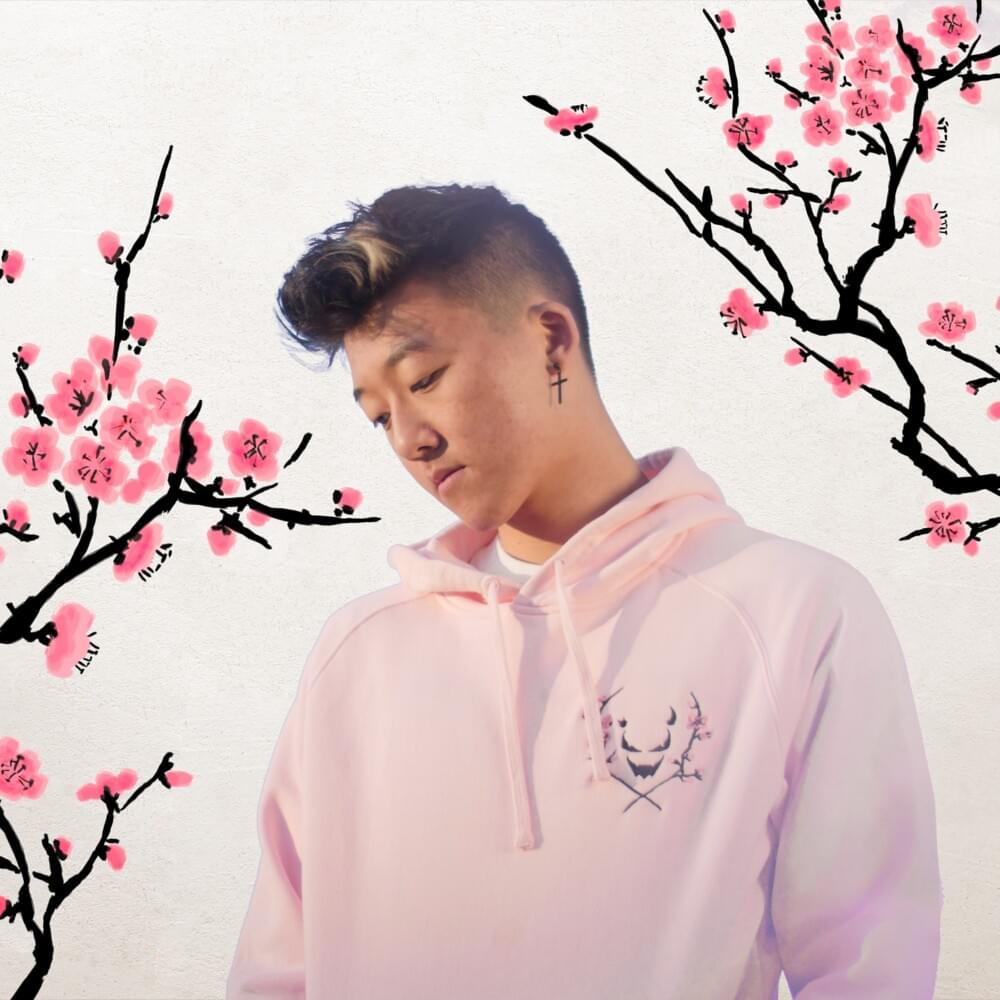
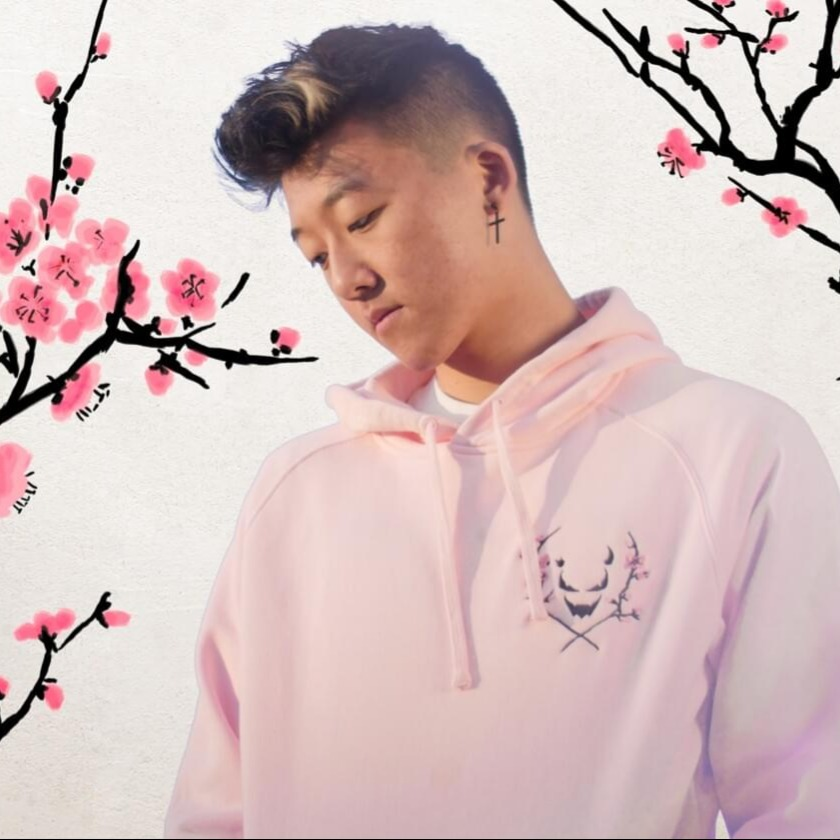
fix(ui): responsive titles, notion card, motion preview and dropdown fixes

diff --git a/genesis-web/src/pages/PromptArchitect.jsx b/genesis-web/src/pages/PromptArchitect.jsx
@@ -565,7 +565,7 @@ const PillSelect = ({ icon: Icon, value, options, onChange }) => {
             {isOpen && (
                 <>
                     <div className="fixed inset-0 z-10" onClick={() => setIsOpen(false)}></div>
-                    <div className="absolute bottom-full left-0 mb-2 w-56 max-h-60 overflow-y-auto custom-scrollbar bg-[#111] border border-white/10 rounded-2xl shadow-xl shadow-black/50 overflow-hidden z-20 flex flex-col p-1 animate-in fade-in zoom-in-95 duration-200">
+                    <div className="absolute bottom-full left-0 mb-2 w-56 max-h-60 overflow-y-auto custom-scrollbar bg-[#111] border border-white/10 rounded-2xl shadow-xl shadow-black/50 overflow-hidden z-[100] flex flex-col p-2 animate-in fade-in zoom-in-95 duration-200">
                         {options.map(opt => (
                             <button
                                 key={opt}
@@ -609,7 +609,7 @@ const ModelSelect = ({ generationType, value, onChange, onTypeChange }) => {
             {isOpen && (
                 <>
                     <div className="fixed inset-0 z-10" onClick={() => setIsOpen(false)}></div>
-                    <div className="absolute bottom-full left-0 mb-2 w-56 bg-[#0a0a0a] border border-white/10 rounded-2xl shadow-2xl shadow-black/70 overflow-hidden z-20 animate-in fade-in zoom-in-95 duration-200">
+                    <div className="absolute bottom-full left-0 mb-2 w-56 bg-[#0a0a0a] border border-white/10 rounded-2xl shadow-2xl shadow-black/70 overflow-hidden z-[100] p-1 animate-in fade-in zoom-in-95 duration-200">
                         {/* Type Tabs */}
                         <div className="flex border-b border-white/5">
                             <button
@@ -682,7 +682,7 @@ const StyleSelect = ({ value, onChange }) => {
             {isOpen && (
                 <>
                     <div className="fixed inset-0 z-10" onClick={() => setIsOpen(false)}></div>
-                    <div className="absolute bottom-full left-0 mb-2 w-64 bg-[#0a0a0a] border border-white/10 rounded-2xl shadow-2xl shadow-black/70 overflow-hidden z-20 animate-in fade-in zoom-in-95 duration-200">
+                    <div className="absolute bottom-full left-0 mb-2 w-64 bg-[#0a0a0a] border border-white/10 rounded-2xl shadow-2xl shadow-black/70 overflow-hidden z-[100] p-1 animate-in fade-in zoom-in-95 duration-200">
                         <div className="p-3 grid grid-cols-2 gap-2 max-h-80 overflow-y-auto custom-scrollbar">
                             {GEN_STYLES.map(style => (
                                 <button
@@ -734,7 +734,7 @@ const LightingSelect = ({ value, onChange }) => {
             {isOpen && (
                 <>
                     <div className="fixed inset-0 z-10" onClick={() => setIsOpen(false)}></div>
-                    <div className="absolute bottom-full left-0 mb-2 w-64 bg-[#0a0a0a] border border-white/10 rounded-2xl shadow-2xl shadow-black/70 overflow-hidden z-20 animate-in fade-in zoom-in-95 duration-200">
+                    <div className="absolute bottom-full left-0 mb-2 w-64 bg-[#0a0a0a] border border-white/10 rounded-2xl shadow-2xl shadow-black/70 overflow-hidden z-[100] p-1 animate-in fade-in zoom-in-95 duration-200">
                         <div className="p-3 grid grid-cols-2 gap-2 max-h-80 overflow-y-auto custom-scrollbar">
                             {LIGHTING_STYLES.map(style => (
                                 <button
@@ -773,7 +773,11 @@ const MotionSelect = ({ value, onChange }) => {
                 className="flex items-center gap-2 px-3 py-2 bg-black/40 hover:bg-black/60 border border-white/10 hover:border-purple-500/50 rounded-2xl transition-all text-sm font-medium text-gray-300 hover:text-white"
             >
                 <div className="w-8 h-8 rounded-lg bg-white/5 flex items-center justify-center overflow-hidden border border-white/10">
-                    <Camera size={16} className={`text-purple-400 ${currentMove.anim}`} />
+                    <img
+                        src="/ui/animation/perso.png"
+                        alt="Camera Move"
+                        className={`w-full h-full object-contain p-1 ${currentMove.anim}`}
+                    />
                 </div>
                 <span className="hidden sm:inline">{currentMove.label}</span>
                 <ChevronDown size={12} className={`text-gray-600 transition-transform ${isOpen ? 'rotate-180' : ''}`} />
@@ -782,7 +786,7 @@ const MotionSelect = ({ value, onChange }) => {
             {isOpen && (
                 <>
                     <div className="fixed inset-0 z-10" onClick={() => setIsOpen(false)}></div>
-                    <div className="absolute bottom-full left-0 mb-2 w-72 max-h-80 overflow-y-auto custom-scrollbar bg-[#0a0a0a] border border-white/10 rounded-2xl shadow-2xl shadow-black/70 z-20 animate-in fade-in zoom-in-95 duration-200">
+                    <div className="absolute bottom-full left-0 mb-2 w-72 max-h-80 overflow-y-auto custom-scrollbar bg-[#0a0a0a] border border-white/10 rounded-2xl shadow-2xl shadow-black/70 z-[100] overflow-hidden p-1 animate-in fade-in zoom-in-95 duration-200">
                         <div className="p-2 grid grid-cols-2 gap-2">
                             {CAMERA_MOVES.map(move => (
                                 <button
@@ -792,7 +796,11 @@ const MotionSelect = ({ value, onChange }) => {
                                 >
                                     <div className="w-10 h-10 rounded-lg bg-black/50 flex items-center justify-center relative overflow-hidden">
                                         <div className="absolute inset-0 bg-[linear-gradient(rgba(255,255,255,0.05)_1px,transparent_1px),linear-gradient(90deg,rgba(255,255,255,0.05)_1px,transparent_1px)] bg-[size:10px_10px]"></div>
-                                        <Camera size={20} className={`text-white/80 group-hover:text-purple-400 ${move.anim}`} />
+                                        <img
+                                            src="/ui/animation/perso.png"
+                                            alt={move.label}
+                                            className={`w-full h-full object-contain p-1 ${move.anim}`}
+                                        />
                                     </div>
                                     <span className="text-[10px] font-bold text-gray-400 group-hover:text-white">{move.label}</span>
                                 </button>

diff --git a/genesis-web/src/App.jsx b/genesis-web/src/App.jsx
@@ -221,8 +221,8 @@ const GenesisLanding = () => {
           <h2 className="section-title">LA PUISSANCE DE <span className="text-gradient">L'IA</span></h2>
           <div className="max-w-4xl mx-auto mt-10">
             <BeforeAfter
-              beforeImage="/img/eric2.jpg"
-              afterImage="/img/eric.png"
+              beforeImage="/img/eric2.png"
+              afterImage="/img/eric.jpg"
             />
           </div>
         </div>
@@ -408,14 +408,29 @@ const GenesisLanding = () => {
 
       {/* Notion Embed Section (Responsive) */}
       <section className="section-padding">
-        <div className="container" style={{ maxWidth: '800px', width: '100%', margin: '0 auto' }}>
-          <div style={{ position: 'relative', width: '100%', height: '600px', borderRadius: '20px', overflow: 'hidden', border: '1px solid rgba(255,255,255,0.1)' }}>
-            <iframe
-              src="https://boiled-gondola-ea5.notion.site/2837b3ecdb188150bacef0d0c737d637"
-              style={{ position: 'absolute', top: 0, left: 0, width: '100%', height: '100%', border: 'none' }}
-              allowFullScreen
-              title="Genesis Notion Embed"
-            />
+        <div className="container" style={{ maxWidth: '800px', margin: '0 auto' }}>
+          <div className="bg-[#111] border border-white/10 rounded-3xl p-12 text-center flex flex-col items-center justify-center shadow-2xl relative overflow-hidden group hover:border-white/20 transition-all">
+            {/* Background Glow */}
+            <div className="absolute top-[-50%] left-[-50%] w-[200%] h-[200%] bg-[radial-gradient(circle_at_center,rgba(147,51,234,0.15),transparent_70%)] pointer-events-none"></div>
+
+            <div className="w-20 h-20 bg-white/5 rounded-2xl flex items-center justify-center mb-6 border border-white/5 group-hover:border-purple-500/50 transition-all duration-500 relative z-10">
+              <svg viewBox="0 0 24 24" className="w-10 h-10 fill-white"><path d="M4.021 21.998L3 4.015l13.567-2.013 4.43 2.671v15.286l-4.463 2.039L4.021 21.998zm4.316-2.583v-12.8l-1.635.856v11.97l1.635-.026zm2.253-12.288l5.888-1.745v11.378l-5.888 2.724V7.127zm7.653 9.471l1.664-.784V5.7l-1.664-1.002v11.9z" /></svg>
+            </div>
+
+            <h3 className="text-2xl md:text-3xl font-bold font-orbitron mb-4 relative z-10">PROGRAMME DÉTAILLÉ</h3>
+            <p className="text-gray-400 mb-8 max-w-lg text-lg relative z-10">
+              Le contenu complet de la formation, module par module, est disponible sur notre Hub Notion public.
+            </p>
+
+            <a
+              href={CONTACT_LINK}
+              target="_blank"
+              rel="noopener noreferrer"
+              className="group relative px-8 py-4 bg-white text-black font-bold font-orbitron rounded-xl hover:scale-105 transition-all flex items-center gap-3 overflow-hidden z-10"
+            >
+              <span className="relative z-10 flex items-center gap-2">ACCÉDER AU NOTION <ArrowRight size={20} className="group-hover:translate-x-1 transition-transform" /></span>
+              <div className="absolute inset-0 bg-gradient-to-r from-purple-400 to-white opacity-0 group-hover:opacity-20 transition-opacity"></div>
+            </a>
           </div>
         </div>
       </section>

diff --git a/genesis-web/src/components/BeforeAfter.jsx b/genesis-web/src/components/BeforeAfter.jsx
@@ -43,7 +43,7 @@ export const BeforeAfter = ({ beforeImage, afterImage }) => {
     return (
         <div
             ref={containerRef}
-            className="relative w-full h-[500px] rounded-3xl overflow-hidden cursor-col-resize select-none border border-white/10 shadow-2xl"
+            className="relative w-full aspect-square rounded-3xl overflow-hidden cursor-col-resize select-none border border-white/10 shadow-2xl"
             onMouseDown={handleStart}
             onTouchStart={handleStart}
         >

diff --git a/genesis-web/src/App.css b/genesis-web/src/App.css
@@ -806,12 +806,14 @@ h2.section-title {
   }
 
   .hero-title-main {
-    font-size: 2.2rem;
+    font-size: 1.6rem;
+    /* Smaller for 1-2 lines */
+    line-height: 1.2;
   }
 
   .hero-desc {
     margin: 0 auto 30px;
-    font-size: 1.1rem;
+    font-size: 1rem;
     text-align: center;
   }
 
@@ -873,8 +875,8 @@ h2.section-title {
     padding: 18px 30px;
   }
 
-  .section-title {
-    font-size: 1.8rem;
+  h2.section-title {
+    font-size: 1.5rem;
   }
 
   .modal-content {
